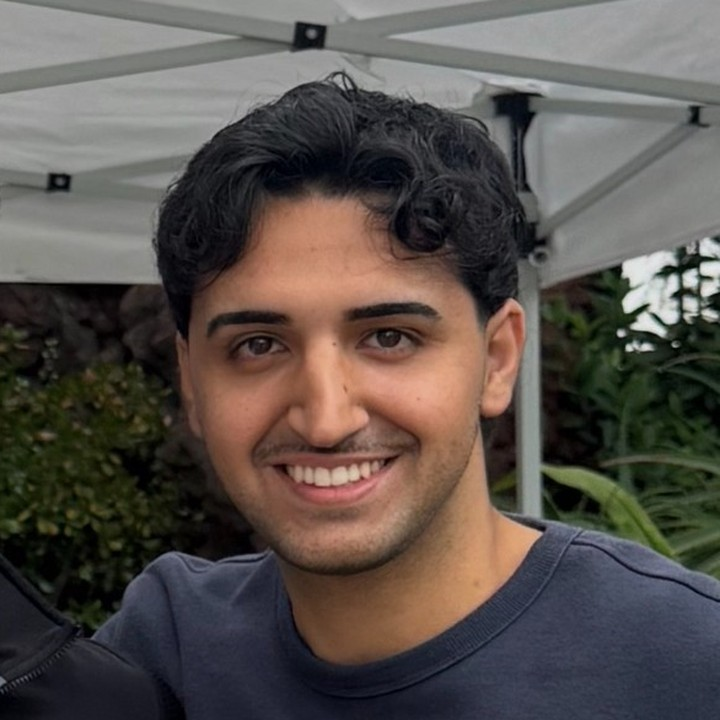
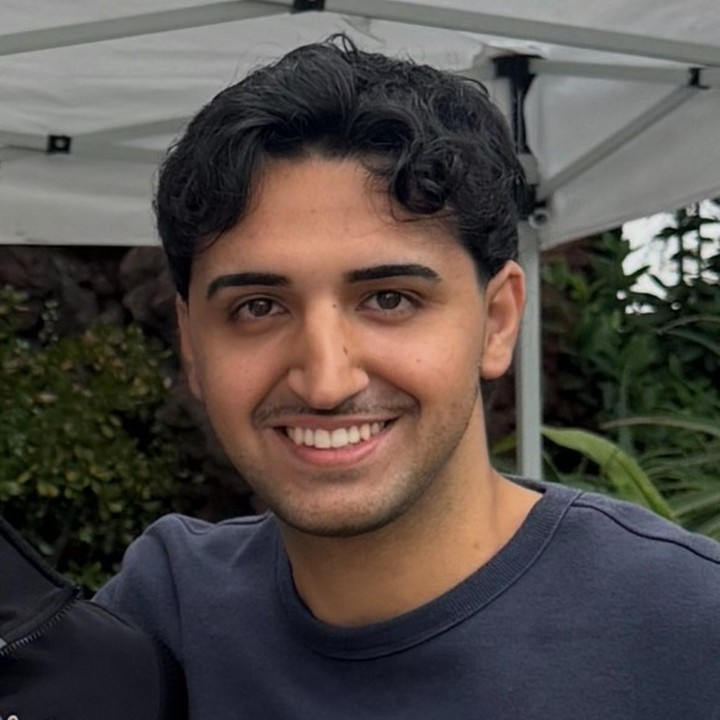
Raise Fedal and Rishit's board headshots slightly.

diff --git a/index.html b/index.html
@@ -251,7 +251,7 @@
               <li>
                 <img
                   class="board-photo"
-                  src="assets/rishit.jpg"
+                  src="assets/rishit.jpg?v=2"
                   alt="Rishit Bhat"
                   width="720"
                   height="720"
@@ -279,7 +279,7 @@
               <li>
                 <img
                   class="board-photo"
-                  src="assets/fedal.jpg?v=11"
+                  src="assets/fedal.jpg?v=12"
                   alt="Fedal Hanoun"
                   width="720"
                   height="720"
